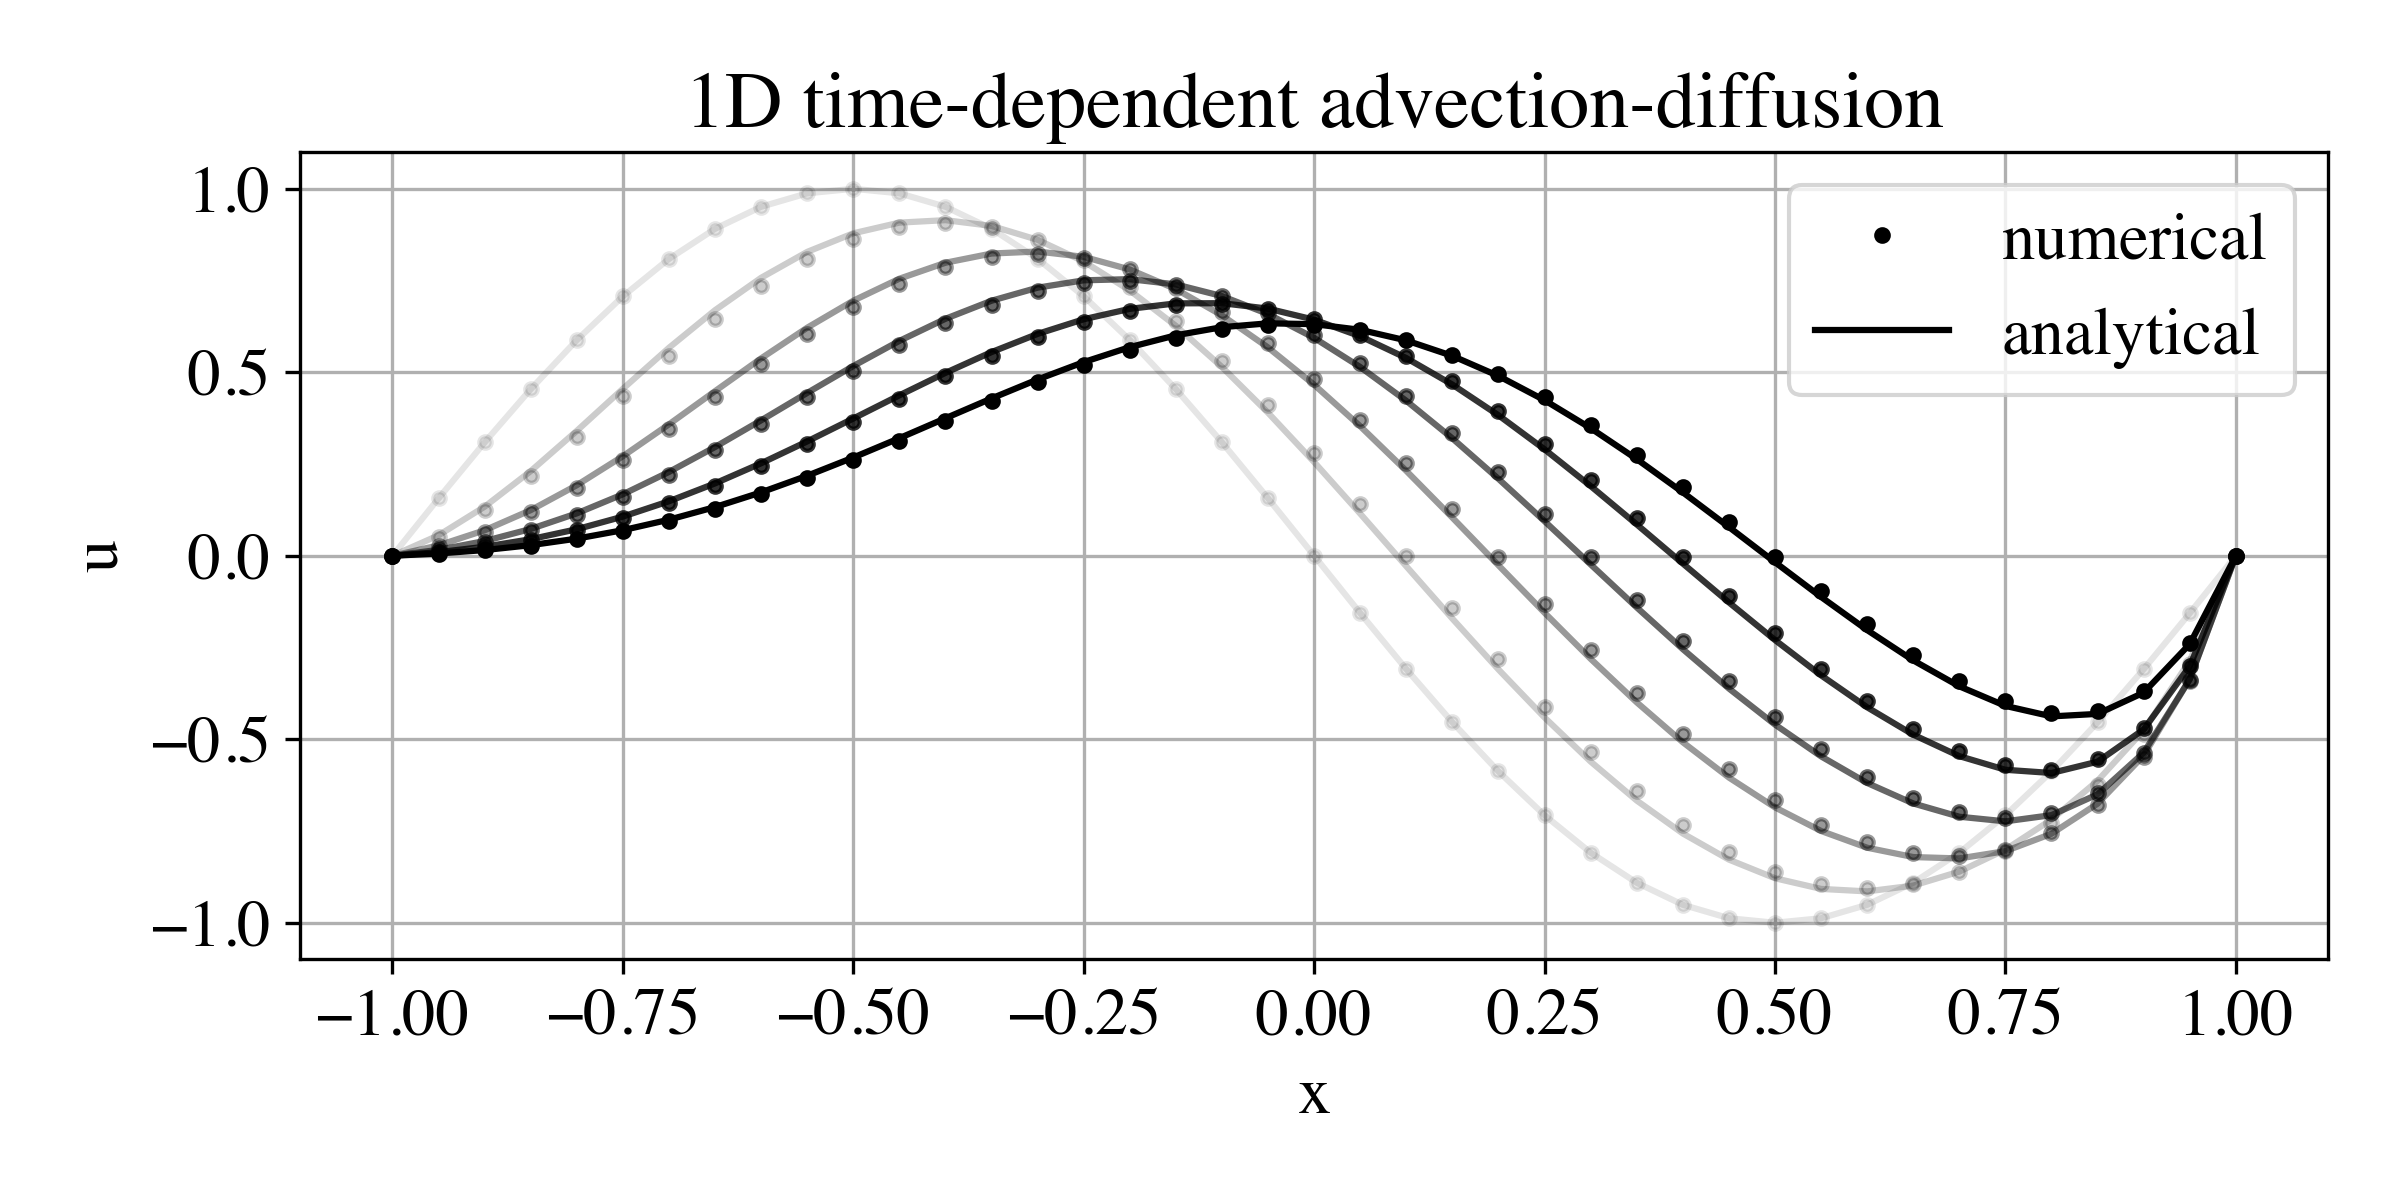
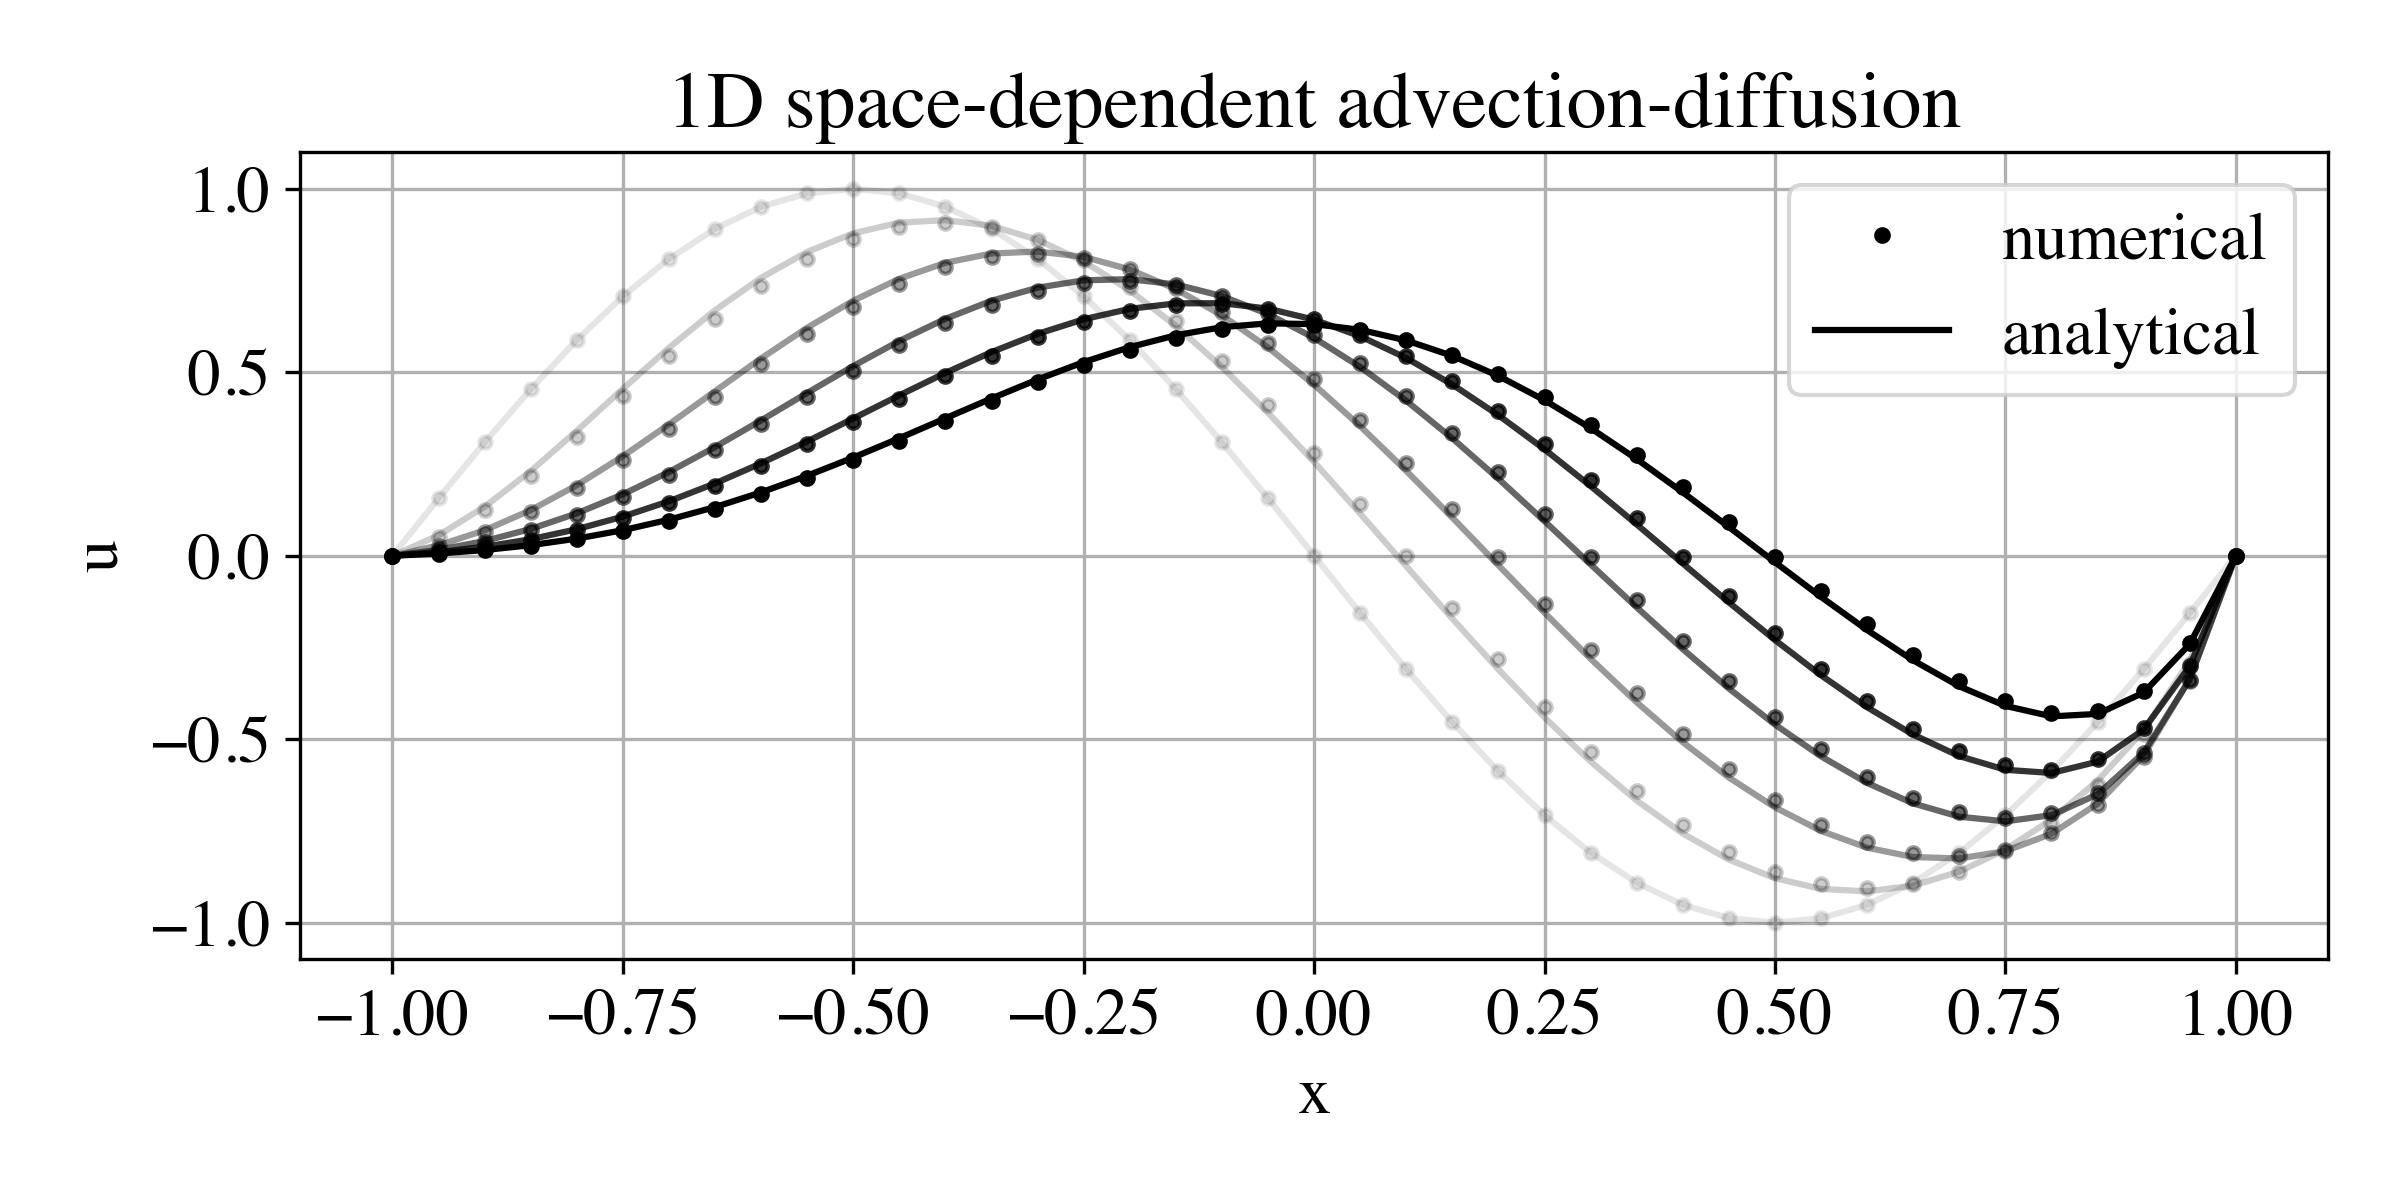
update plot title

Changed region(s): [[0.2812, 0.0617, 0.8125, 0.1233]]

diff --git a/advection-diffusion-1d-rk4.py b/advection-diffusion-1d-rk4.py
@@ -90,7 +90,7 @@ plt.xlabel('x')
 plt.ylabel('u')
 plt.grid(True)
 plt.legend(loc="upper right")
-plt.title('1D time-dependent advection-diffusion')
+plt.title('1D space-dependent advection-diffusion')
 plt.savefig("advdiff-dirichlet.png",dpi=300,format='png',transparent=True)
 plt.show()
 
